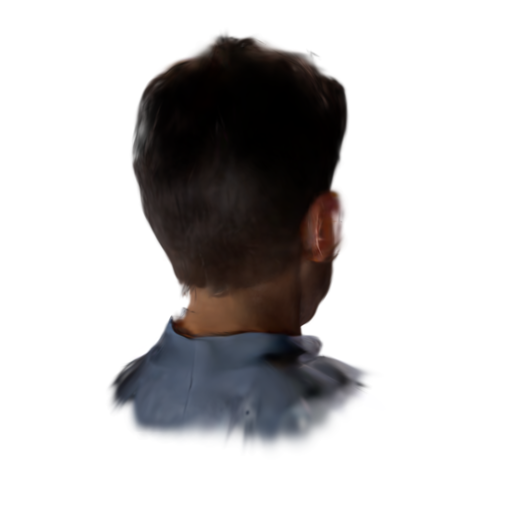
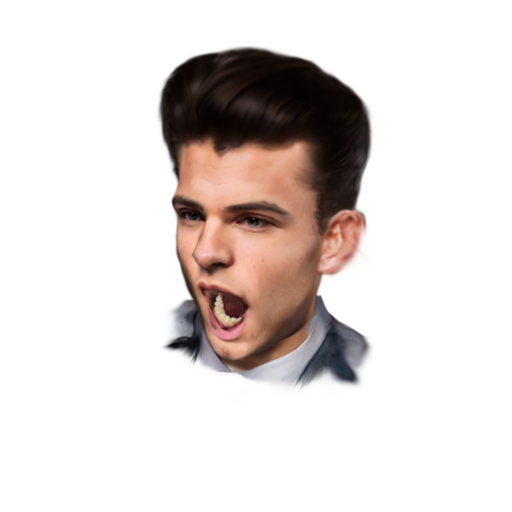
change loopadd

Changed region(s): [[0.1875, 0.0625, 0.75, 0.875]]

diff --git a/loop_all.py b/loop_all.py
@@ -271,9 +271,8 @@ class Avatar:
     def get_flame_cond(self, dist, elev_deg, azim_deg, fovy_deg, expression, jaw_pose, neck_pose, leye_pose, reye_pose,
                        at=torch.tensor(((0, 0, 0),)), up=torch.tensor(((0, 0, 1),))):
         at, up = at.to(torch.float), up.to(torch.float)
-        flame_depths = self.skel.get_cond(dist, elev_deg, azim_deg, at, up, fovy_deg, expression=expression,
-                                          jaw_pose=jaw_pose, neck_pose=neck_pose, lmk=True, mediapipe=True,
-                                          mesh_vis=True)
+        flame_depths = self.skel.get_cond(dist, elev_deg, azim_deg, at, up, fovy_deg, expression=expression,leye_pose=leye_pose, reye_pose=reye_pose,
+                                          jaw_pose=jaw_pose, neck_pose=neck_pose, lmk=True, mediapipe=True, mesh_vis=True, gaussian_camera_convention=True)
         return flame_depths
 
     def get_camera(self, dist, elev, azim, fovy_deg=70.0):
@@ -449,7 +448,8 @@ class Trainer:
         self.max_grad = cfg['avatar']['max_grad']
 
         diffusion_path = '../HeadStudio_lib/realistic-vision-51'
-        vae_path = '../../others/AnimPortrait3D/pretrained_model/sd-vae-ft-ema'
+        diffusion_path = '../../others/AnimPortrait3D/pretrained_model/Realistic_Vision_V5.1_noVAE'
+        vae_path = '../HeadStudio_lib/sd-vae-ft-mse'
         controlnet_path = '../HeadStudio_lib/ControlNetMediaPipeFace'
 
         vae = AutoencoderKL.from_pretrained(vae_path,torch_dtype=torch.float16).to(device)
@@ -549,19 +549,39 @@ class Trainer:
                 controlnet_conditioning_image = (torch.clamp(mesh, min=0, max=1.0) * 255).byte().contiguous().cpu().numpy()
                 controlnet_conditioning_image = Image.fromarray(controlnet_conditioning_image)
 
+                refined_image_nocontrol = self.sdeditpipeline(
+                    controlnet = None,
+                    prompt= 'a DSLR portrait of a handsome young brown lightly wavy Pompadour with fade, muscled sportsman in navy satin large pinstripe double-breasted suit, pompadour haircut',
+                    negative_prompt='oversaturation, low-resolution, unrealistic, blurry, low quality, out of focus, ugly, low contrast, dull',
+                    image=original_image,
+                    controlnet_conditioning_image=None,
+                    width=original_image.size[0],
+                    height=original_image.size[1],
+                    strength=0.3, 
+                    num_inference_steps=50, 
+                    guidance_scale =7.5,
+                ).images[0].resize((512, 512))
+
                 refined_image = self.sdeditpipeline(
                     controlnet = self.controlnet,
                     prompt= 'a DSLR portrait of a handsome young brown lightly wavy Pompadour with fade, muscled sportsman in navy satin large pinstripe double-breasted suit, pompadour haircut',
-                    negative_prompt='"oversaturation, low-resolution, unrealistic, blurry, low quality, out of focus, ugly, low contrast, dull"',
+                    negative_prompt='oversaturation, low-resolution, unrealistic, blurry, low quality, out of focus, ugly, low contrast, dull',
                     image=original_image,
                     controlnet_conditioning_image=controlnet_conditioning_image,
                     width=original_image.size[0],
                     height=original_image.size[1],
                     strength=0.3, 
-                    num_inference_steps=20, 
+                    num_inference_steps=50, 
                     guidance_scale =7.5,
-                    controlnet_conditioning_scale=1.5
+                    controlnet_conditioning_scale=0.65,
+                    controlnet_guidance_start=0.0,
+                    controlnet_guidance_end=0.55,
                 ).images[0].resize((512, 512))
+
+                original_image.save('cur.png')
+                controlnet_conditioning_image.save('controlnet_conditioning_image.png')
+                refined_image_nocontrol.save('refined_nocontrol.png')
+                refined_image.save('refined.png')
 
                 g = torch.Generator(device=self.device)
                 idx_int = int(idx_t.detach().cpu().item())

diff --git a/threestudio/utils/head_v2.py b/threestudio/utils/head_v2.py
@@ -382,6 +382,7 @@ class FlamePointswRandomExp:
         # imgs = draw_landmarks(canvas, img_lmk_468[0].long().detach().cpu().numpy())
         # imgs = np.array(imgs, dtype=np.int32)
         # imgs = draw_openpose(img_lmk.detach().cpu(), self.image_size, self.image_size)
+        imgs = np.ascontiguousarray(imgs[..., ::-1])
         return imgs / 255.0
 
     def get_cond_depth(self, vertices, faces, cameras, mesh_vis=False, mesh_rgb=False):

diff --git a/threestudio/utils/mediapipe_utils_v2.py b/threestudio/utils/mediapipe_utils_v2.py
@@ -110,7 +110,7 @@ def draw_landmarks_105(image, landmark_list, connections=ConnectionDict):
                     drawing_spec.thickness,
                 )
 
-        return img[:, :, ::-1]  # flip BGR
+        return img
 
     draw_image = np.stack([draw_landmarks(image[i], landmark_list[i])
                            for i in range(bs)], axis=0)

diff --git a/threestudio/utils/mediapipe_utils.py b/threestudio/utils/mediapipe_utils.py
@@ -129,4 +129,4 @@ def draw_landmarks_468(
         cv2.circle(image, left_iris, left_eye_draw.circle_radius, left_eye_draw.color, thickness=-1)
     if right_iris is not None:
         cv2.circle(image, right_iris, right_eye_draw.circle_radius, right_eye_draw.color, thickness=-1)
-    return image[:, :, ::-1]  # flip BGR
+    return image
